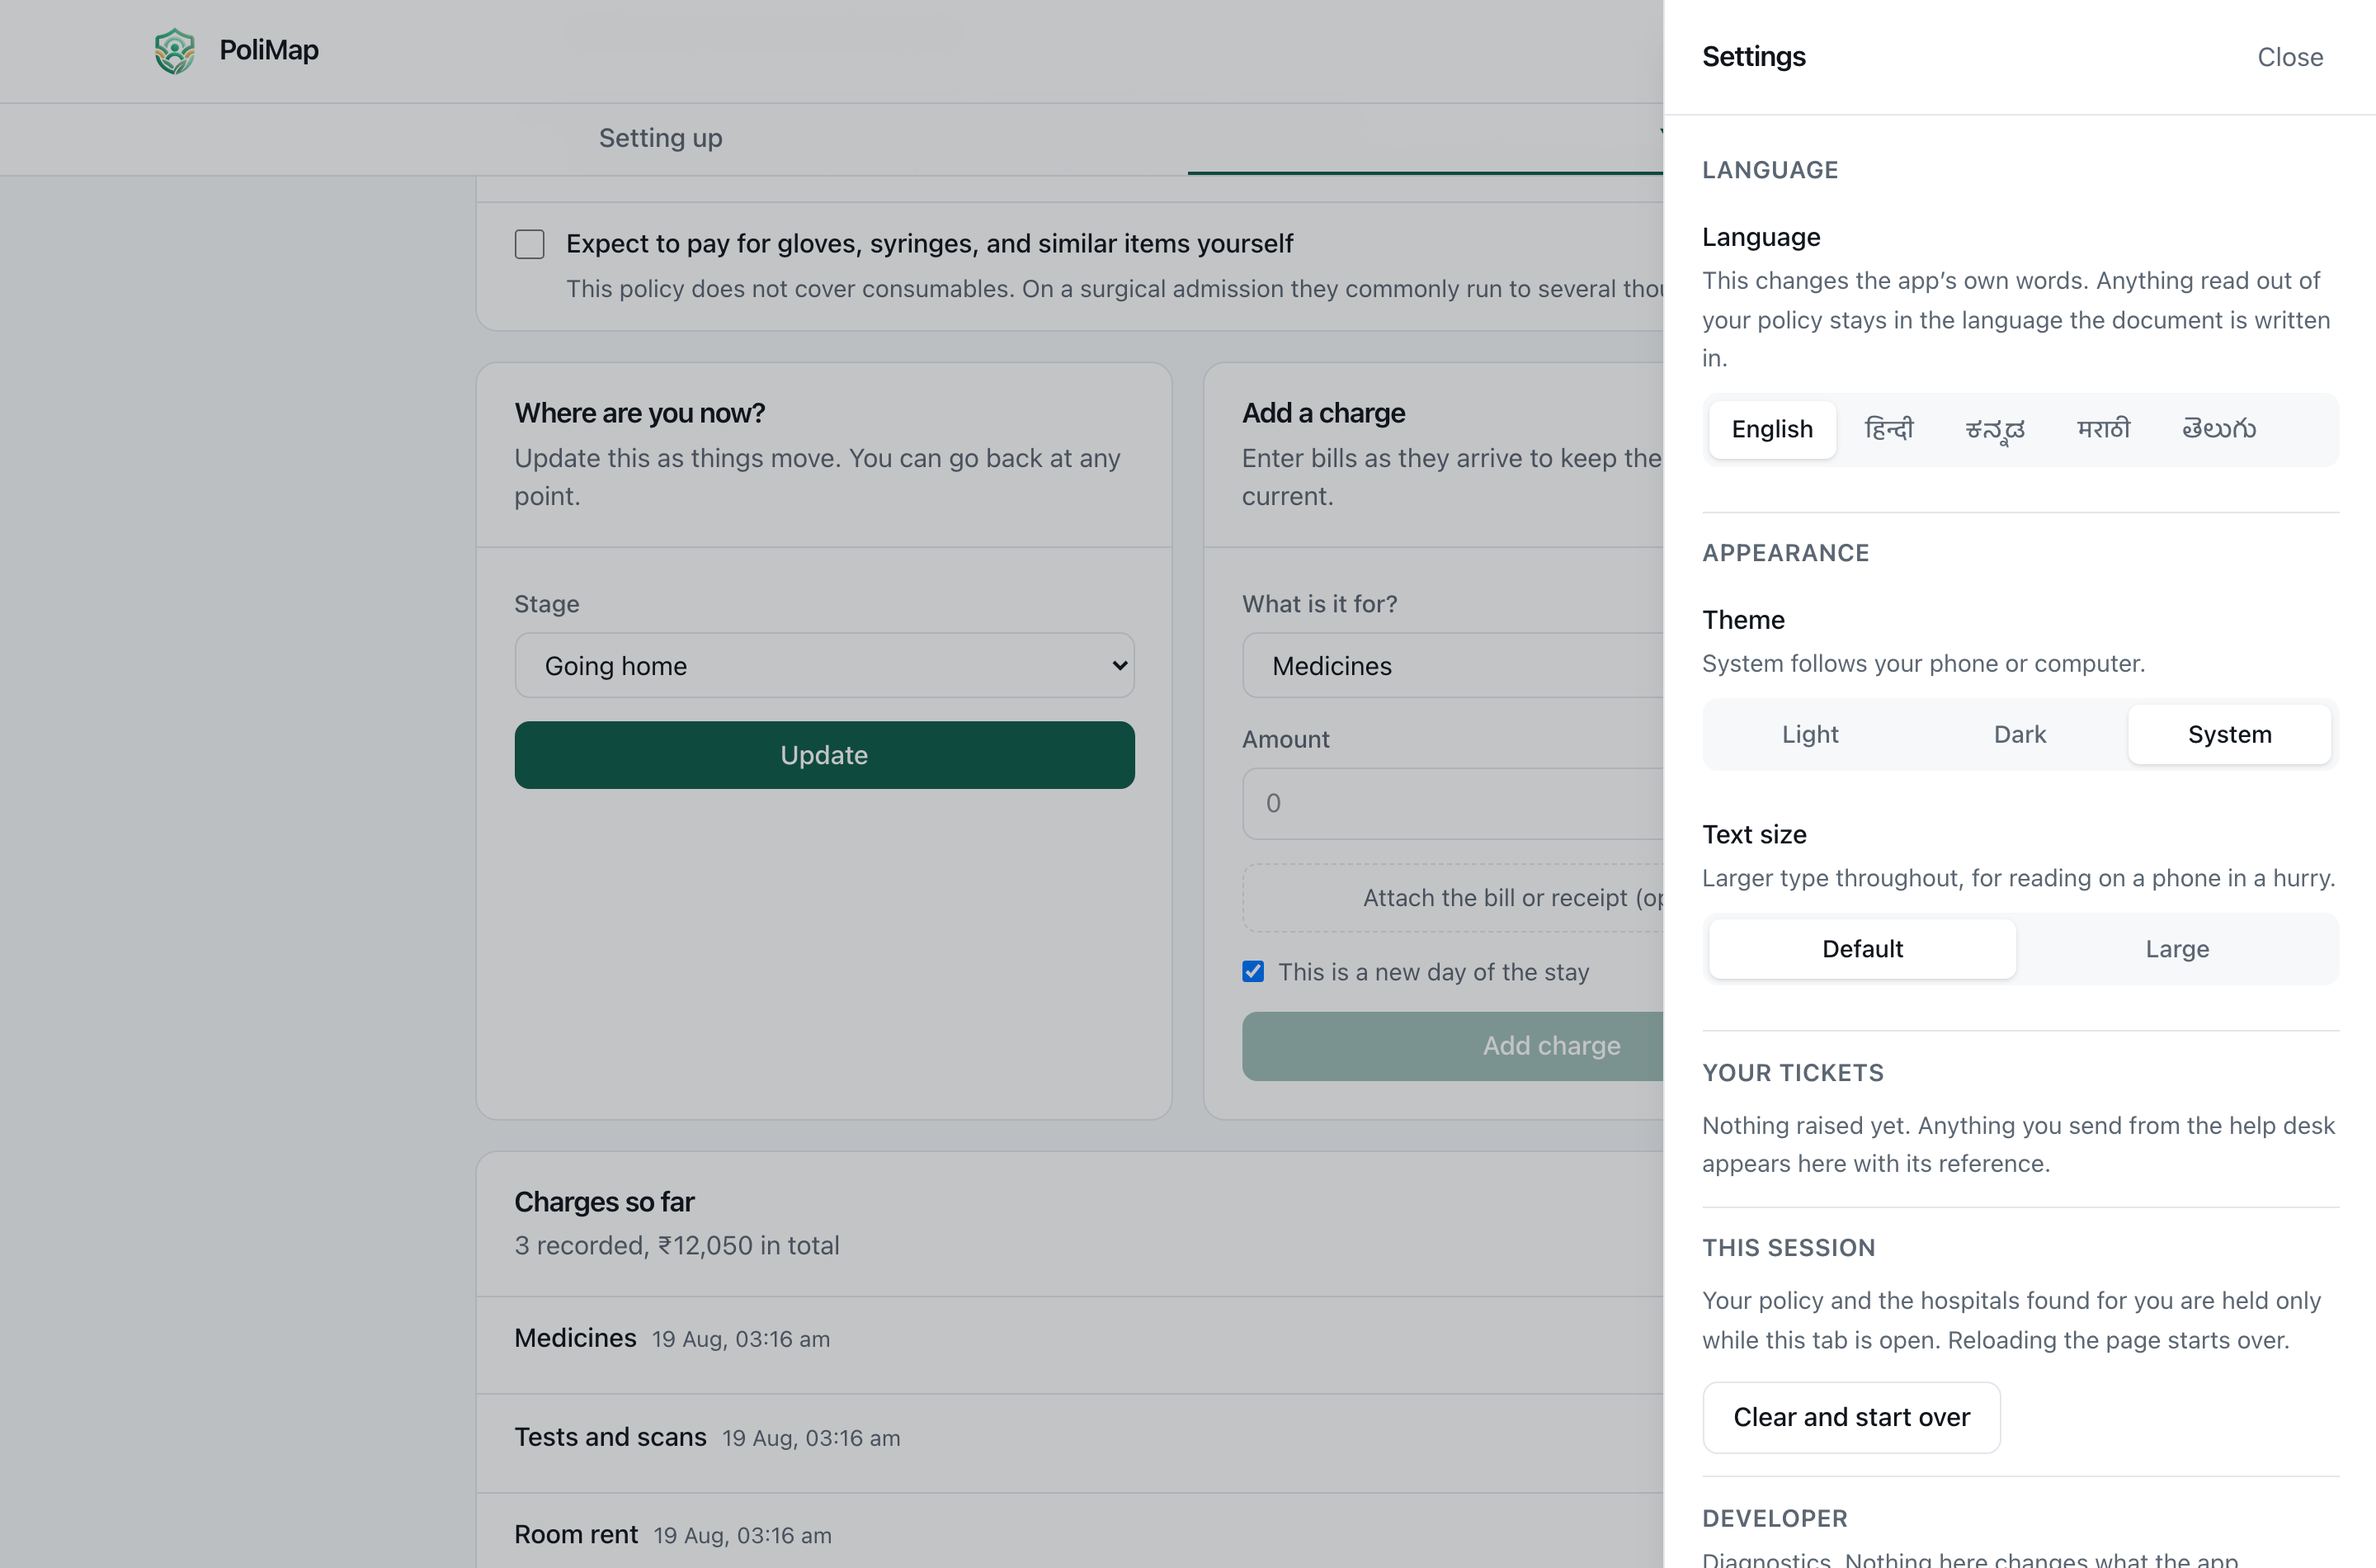
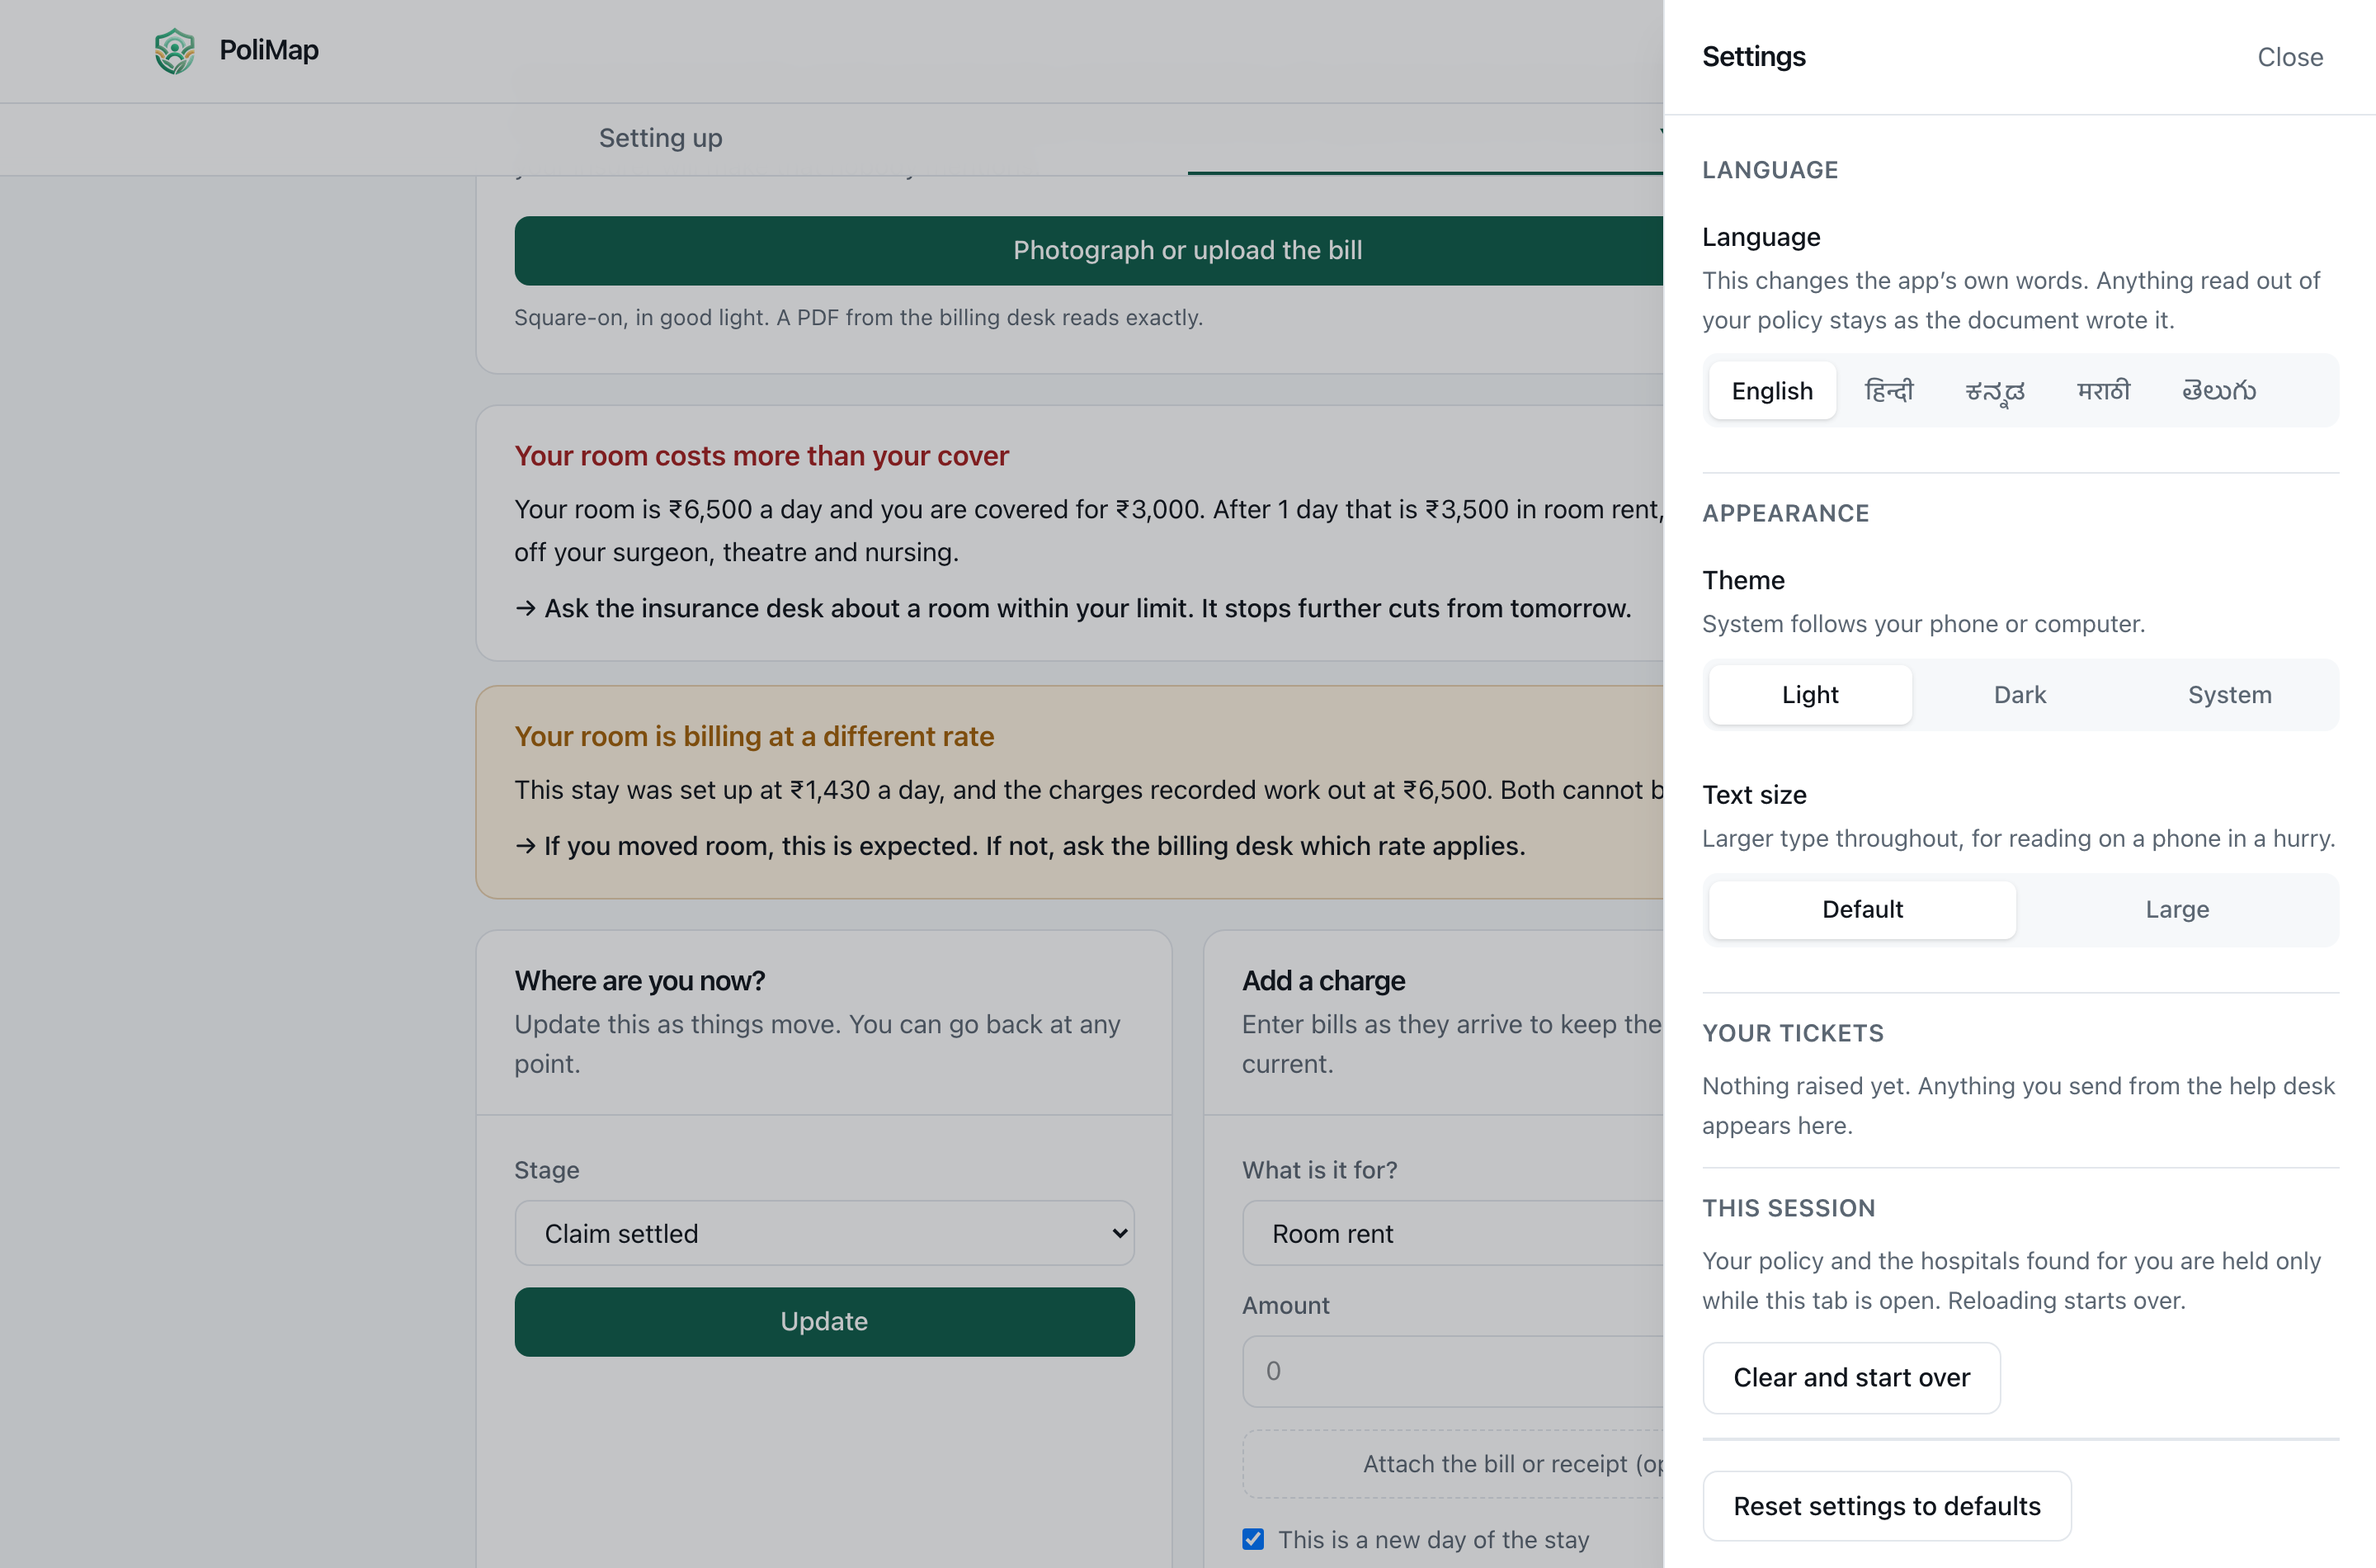
Retake the two settings screenshots, and say what changed around them
The Kannada one was taken while half the screen was still English, which made
it evidence for the opposite of what it captions. Both are the same frame now,
one in each language, and the drawer in them is the drawer as it stands: no
diagnostics section, and a way in from the first screen.

The README picks up the rest of it: where the activity panel went, that the
help desk answers in the language and the script it was asked in, and that a
date now travels in a form another language can say.

diff --git a/README.md b/README.md
@@ -213,7 +213,7 @@ line moved.
 ### 7. It speaks the language it is read in
 
 The interface is available in English, Kannada, Hindi, Marathi and Telugu.
-Every word it writes itself: 687 keys, each resolving in all five. Not
+Every word it writes itself: 753 keys, each resolving in all five. Not
 translated, deliberately: anything read out of somebody's policy. A clause
 paraphrased into another language and shown as what the document says is a claim
 about their cover that nobody has checked.
@@ -242,13 +242,24 @@ covered for ₹5,000" is a sentence about two numbers that only exist after
 adjudication. Those sentences carry three things rather than one, the key that
 says which sentence it is, the English as composed, and the values written into
 it, and the reader's own language is looked up under the key with the numbers
-put back into it there. Waiting periods travel as a unit and a count rather than
-as "24 months", which is a phrase no table can reach inside.
+put back into it there. Two kinds of value cannot survive that on their own and
+travel twice: a waiting period goes as a unit and a count rather than as "24
+months", and a date goes in ISO form beside the written one, because "17
+November" is an English month wherever it has been dropped into a sentence and
+no table can reach inside a value.
 
 Those keys are written in Python, so the frontend check cannot find them; they
 are declared to it instead. The other half of that check runs from the side they
 are born on, exercising the paths that produce them and failing with the key and
 the language named when one has no line.
+
+The panel a person watches while their policy is read is the same story from the
+other side. Its five phase names were constants and are keys now, but the line
+underneath, the one naming the file being opened or the page being recognised,
+is the server's own summary and cannot be translated where it stands. So it is
+composed in the browser instead, out of the figures the same event already
+carries, and a step that has not produced its figures yet says nothing rather
+than something half true.
 
 ![The language picker, with the app in Kannada](docs/images/12-language.png)
 
@@ -269,6 +280,24 @@ Every answer is written in this repository, in `help/knowledge.yaml`. With no
 model reachable the knowledge base answers on its own by matching what was
 asked; with one, that same knowledge is the only ground the model is given, so
 the difference between the two paths is fluency rather than substance.
+
+It answers in the language it was asked in, and in the script it was asked in.
+Those are two questions, and the second one is where a model left to itself gets
+it wrong: shown "room rent ka limit kitna hai" it recognises the Hindi and
+answers in Devanagari, to somebody who was typing in English letters. The script
+is decided here instead, by counting the letters of the question, which settles
+it exactly and covers the way most of this country actually types. Everything
+the desk did not write on the spot, the opening, the refusals and the fourteen
+written answers, travels with the key it is read under, so those come back in
+the reader's language with no model involved at all.
+
+The answer arrives as it is written rather than several seconds later, all at
+once. The vetting below is not relaxed for that: every check made on a finished
+draft is made on the growing one, and nothing reaches the screen until two
+hundred characters sit behind it, so a rule that a sentence is about to trip
+trips before that sentence has been shown to anybody. The finished reply is sent
+whole at the end and is the one that counts; when a draft is stopped part way,
+it carries the written answer and the browser replaces what it had.
 
 The answers and the refusals are YAML rather than Python because they are text
 and patterns, not logic. Every answer the desk can give, and every question it
@@ -352,7 +381,7 @@ extractor alone, and says so rather than pretending.
 **Verifying it**
 
 ```bash
-cd backend && ../.venv/bin/python -m pytest -q     # 1029 tests
+cd backend && ../.venv/bin/python -m pytest -q     # 1051 tests
 
 .venv/bin/python -m ruff check .                   # lint, whole repository
 cd frontend && npm run lint                        # includes: every interface
@@ -395,9 +424,18 @@ flowchart TD
 ```
 
 Every step emits a `PipelineEvent` written to the server log *and* streamed to
-the browser's activity panel, so what the user sees cannot drift from what the
-server did. The panel is a developer tool, so it lives in settings and is off by
-default:
+the browser, so what the user sees cannot drift from what the server did. Two
+things read that stream. The person waiting on their policy gets the five phases
+it groups into, with the page count and the timings, which is the whole of what
+they want to know. The activity panel gets every step, and it is a developer's
+window rather than a setting: it is asked for in the address bar with
+`?activity=1`, which is where the people who want it look and nowhere the people
+who do not will trip over it.
+
+Settings carries what belongs to the reader and nothing else, and is reachable
+from the very first screen, because the language control is inside it and
+somebody who cannot read the sign-in page has to be able to get to it before
+they are asked to type anything:
 
 ![Settings](docs/images/06-settings.png)
 
@@ -636,7 +674,7 @@ the phone is treated as its own screen rather than a narrow desk:
   bottom of the screen and the browser's own chrome comes and goes as you
   scroll, so `vh` is measured against a viewport that is often not there.
 - **The setup flow's thread lies on its side** under the header, and the rail
-  and the activity panel are desk-only rather than squeezed in.
+  is desk-only rather than squeezed in.
 - **Wide content scrolls inside itself**, so no table can push the page sideways.
 
 ![On a phone](docs/images/08-mobile.png)
